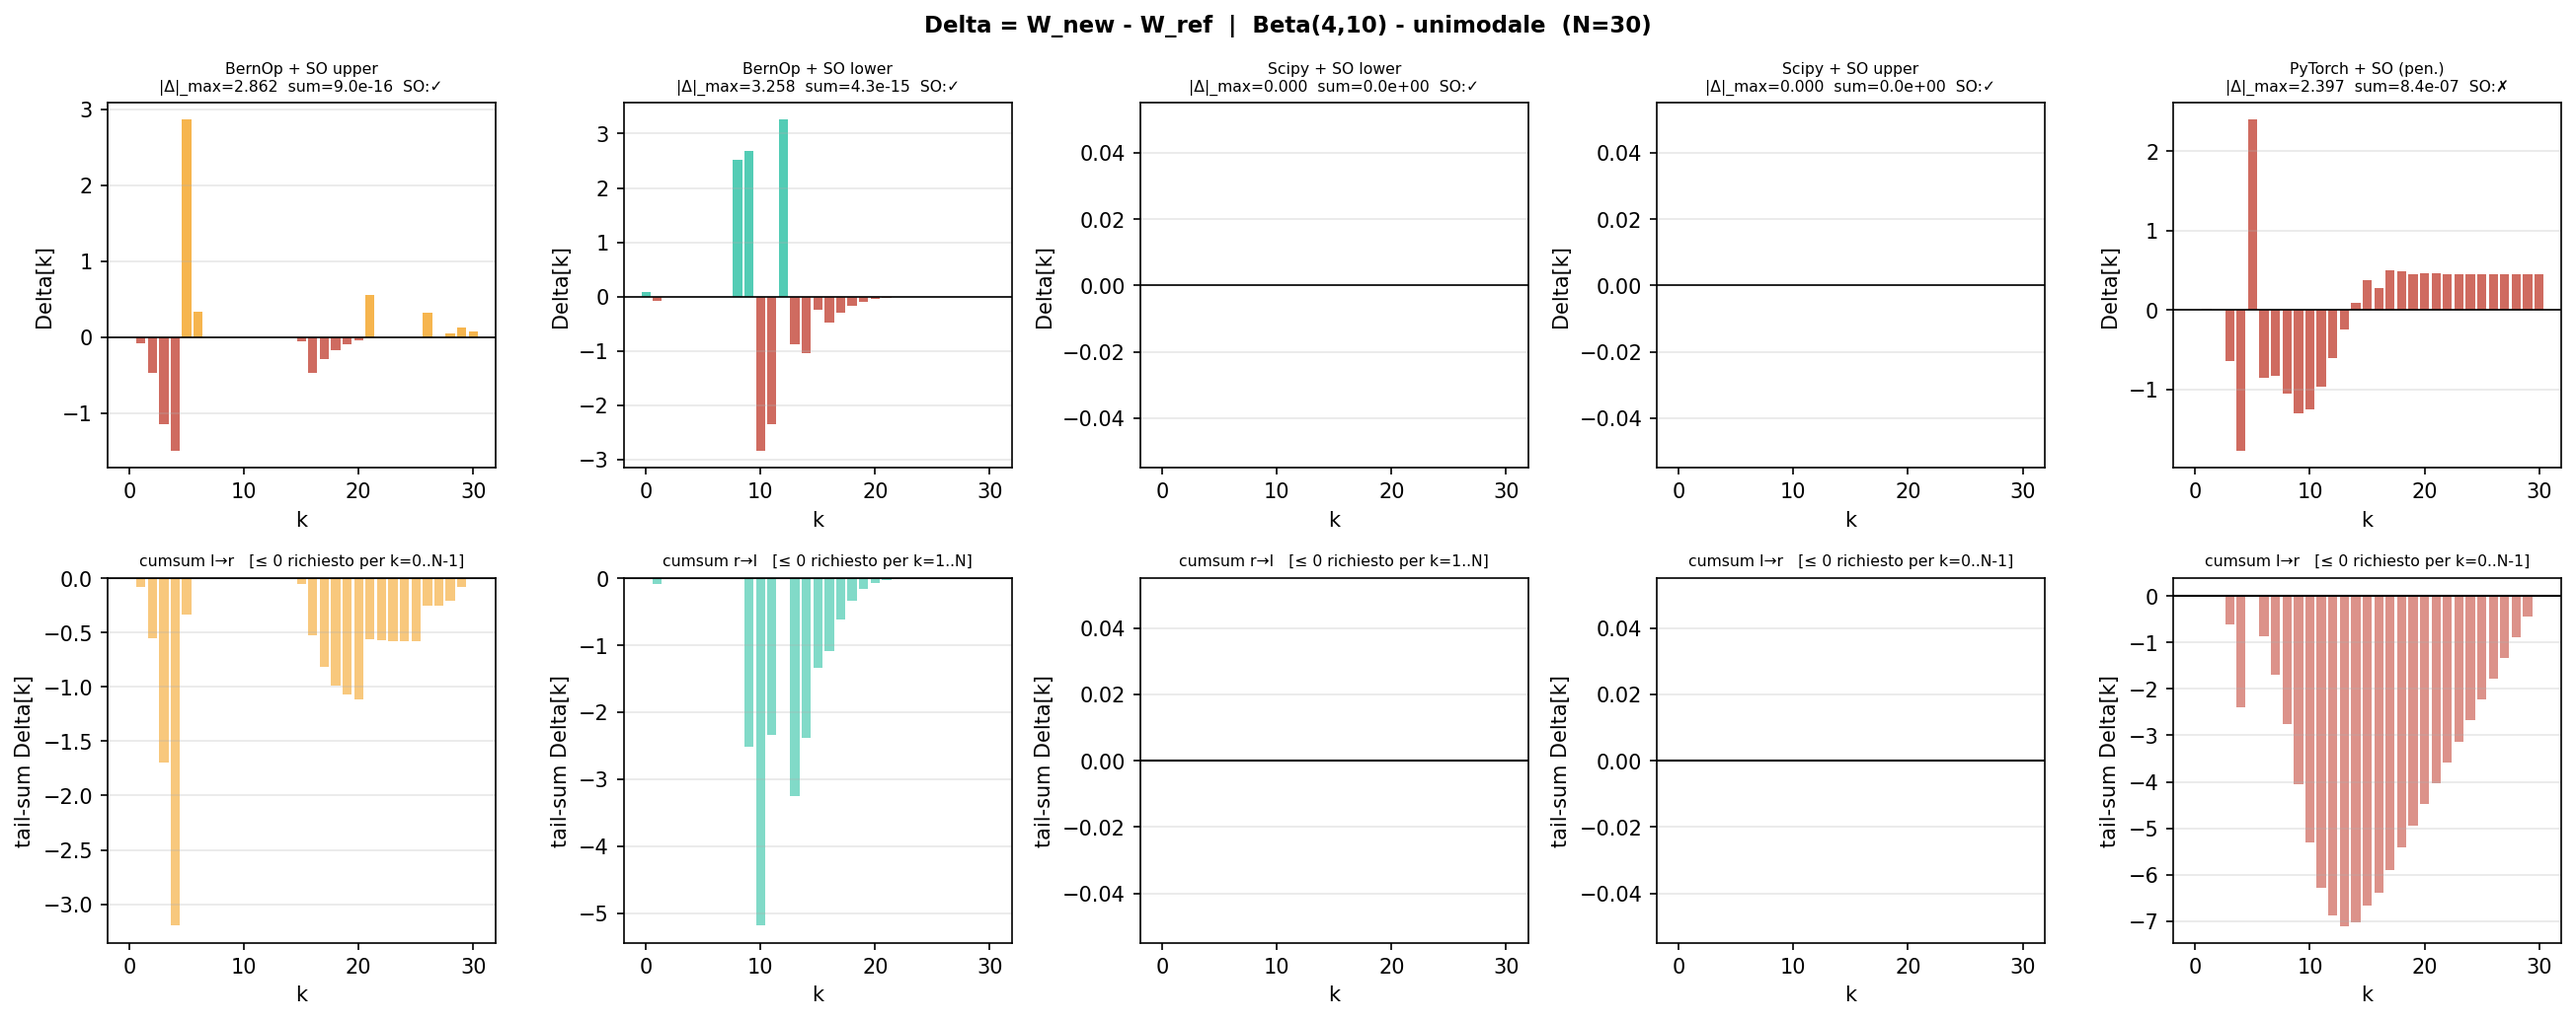
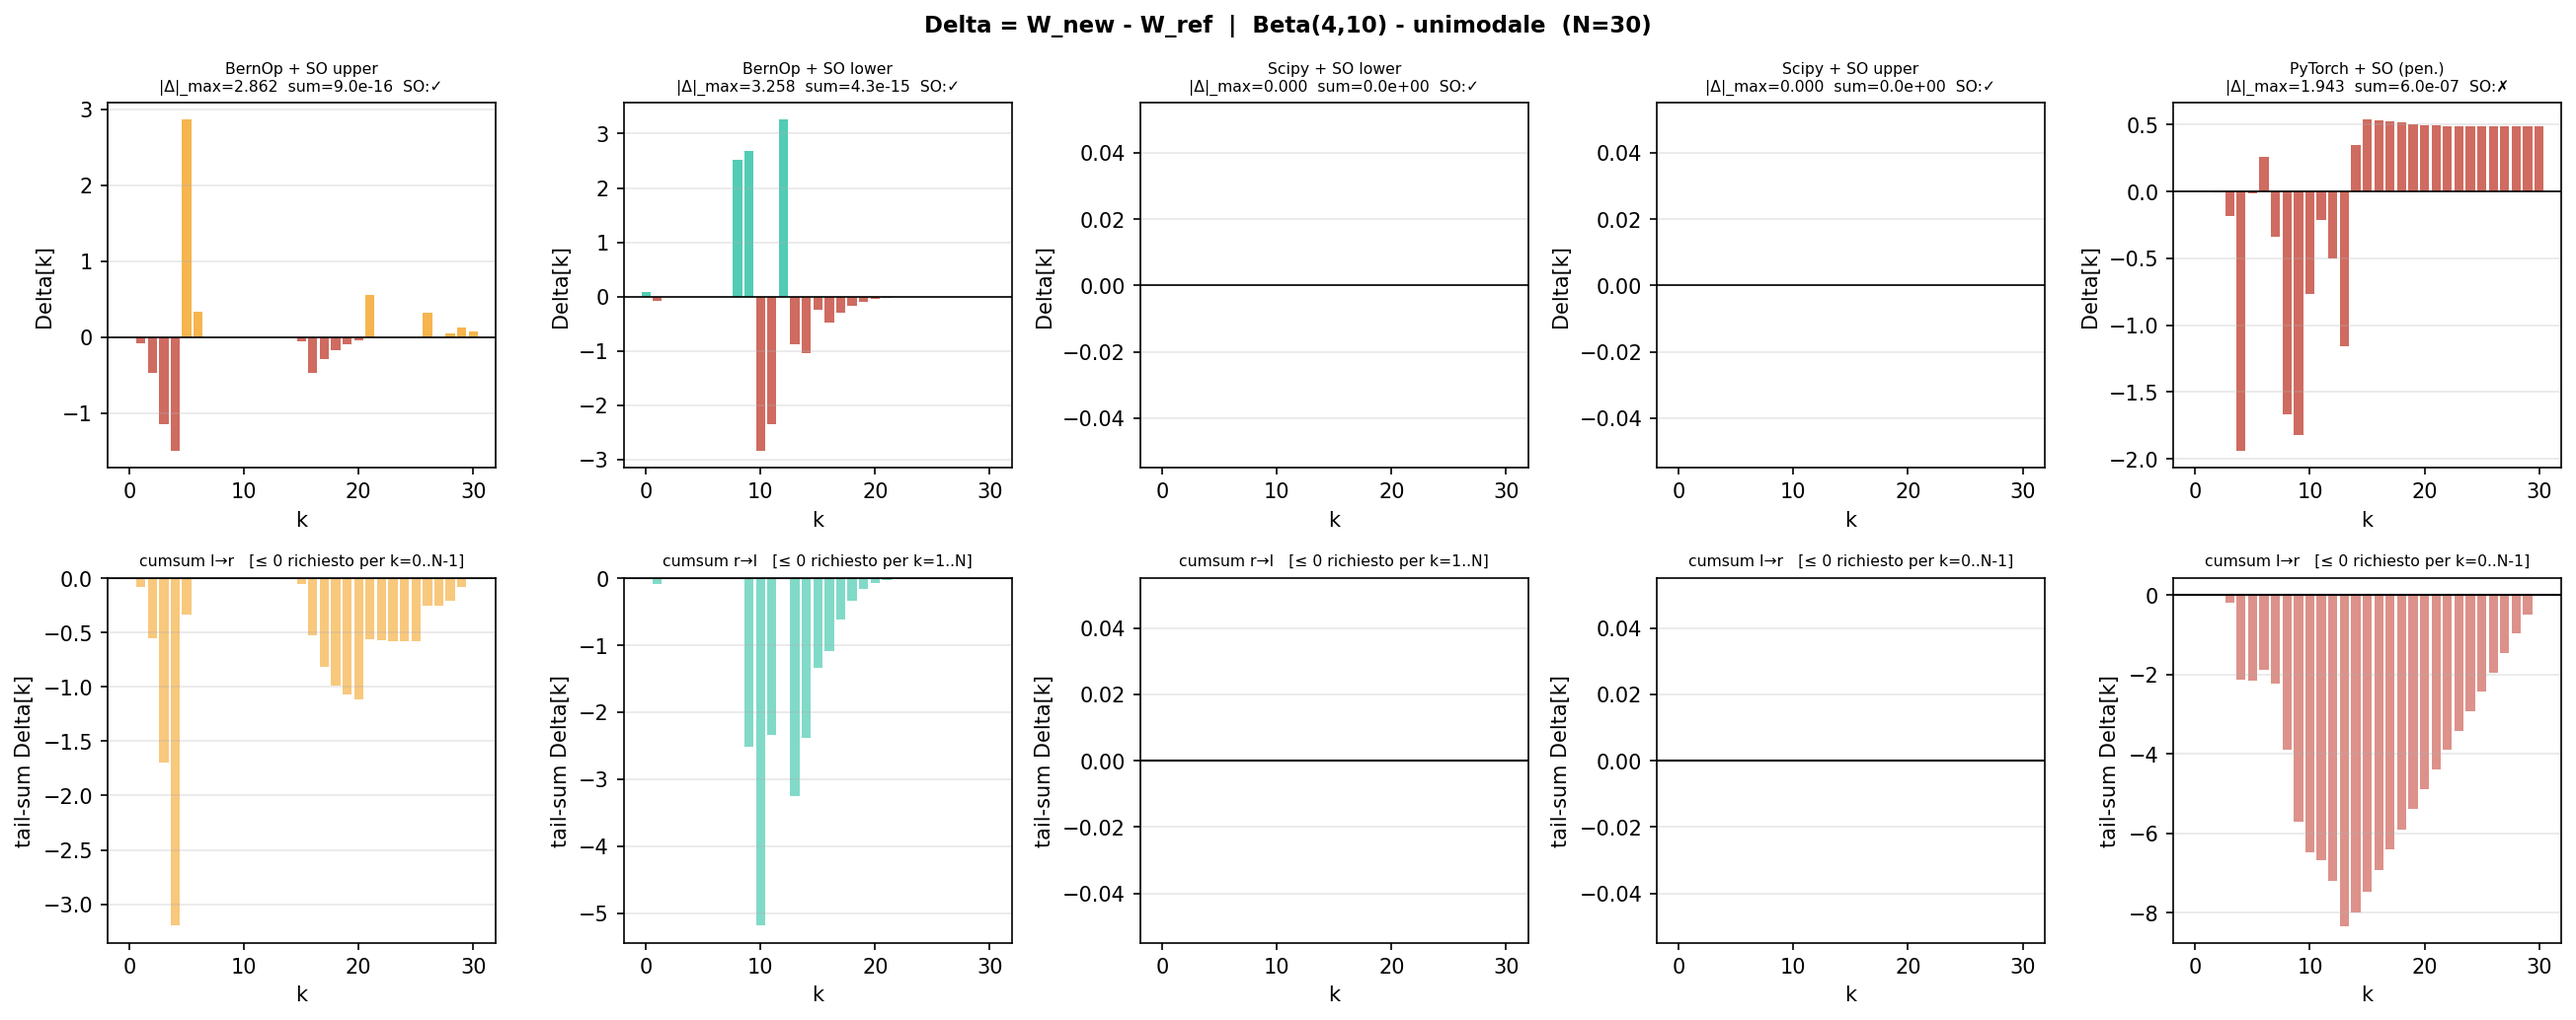
Small changes

diff --git a/bernstein/experiments.py b/bernstein/experiments.py
@@ -188,19 +188,19 @@ def run_experiment(name: str, N: int, x: np.ndarray, f: np.ndarray,
     print(f"\n  PyTorch                 MSE={m:.7f}   t={t_pytorch:8.2f} ms")
     _print_w_delta('pytorch', W_pt)
 
-    # PyTorch + SO upper (W_ref = W_scipy)
+    # PyTorch + SO upper (W_ref = W_pytorch)
     # Aggiunge ordinamento stocastico, per farlo usa delle penalità
     # quando l'approssimazione non rispetta l'ordinamento.
     # In questo modo il gradient descent riesce ad auto bilanciarsi
     # e trovare i pesi per far funzionare tutto
     t0 = time.perf_counter()
-    W_pt_up, D_pt_up = solve_pytorch_ordered(N, x, f, W_scipy.copy(),
+    W_pt_up, D_pt_up = solve_pytorch_ordered(N, x, f, W_pt.copy(),
                                              direction='upper')
     t = (time.perf_counter() - t0) * 1e3 + t_pytorch
-    so = check_order(W_pt_up, W_scipy, 'upper')
+    so = check_order(W_pt_up, W_pt, 'upper')
     m = _store('pytorch_upper', W_pt_up, t, Delta=D_pt_up)
     results['pytorch_upper']['so'] = so
-    results['pytorch_upper']['W_ref'] = W_scipy.copy()
+    results['pytorch_upper']['W_ref'] = W_pt.copy()
     sat = '✓' if so['satisfied'] else '✗'
     print(f"\n  PyTorch + SO (pen.)     MSE={m:.7f}   t={t:8.2f} ms  SO:{sat}")
     _print_w_delta('pytorch_upper', W_pt_up, D_pt_up)

diff --git a/bernstein/plotting.py b/bernstein/plotting.py
@@ -134,7 +134,7 @@ def plot_weights(results: dict, save_path: str | None = None):
     N = results['N']
     nodes = np.arange(N + 1)
     keys = [k for k in ['bernstein_op', 'scipy', 'scipy_upper', 'scipy_lower',
-                        'bernstein_op_upper', 'bernstein_op_lower', 'pytorch']
+                        'bernstein_op_upper', 'bernstein_op_lower', 'pytorch', 'pytorch_upper']
             if k in results]
 
     fig, axes = plt.subplots(1, len(keys), figsize=(len(keys) * 3.2, 4),

diff --git a/README.md b/README.md
@@ -86,7 +86,7 @@ Il sistema implementa SO rispetto a **due diversi punti di riferimento**, a seco
 |---|---|---|
 | `bernstein_op_upper/lower` | $W_{\text{bernsteinOp}}$ | SO rispetto all'operatore di Bernstein classico |
 | `scipy_upper/lower` | $W_{\text{scipy}}$ | SO rispetto all'ottimo non vincolato (MSE minimo) |
-| `pytorch_upper` | $W_{\text{scipy}}$ | idem, con vincolo soft (penalità) |
+| `pytorch_upper` | $W_{\text{pytorch}}$ | idem, con vincolo soft (penalità) |
 
 ---
 
